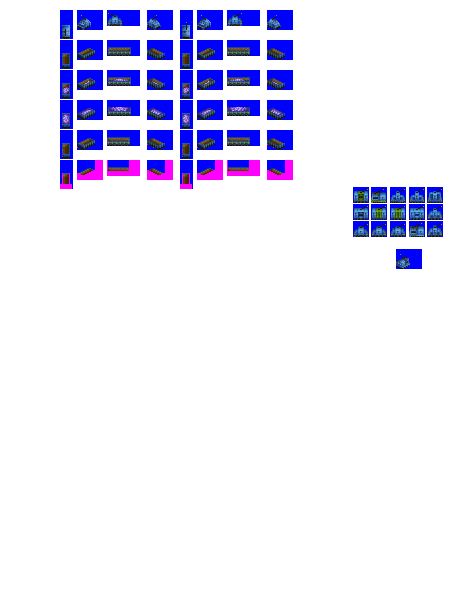
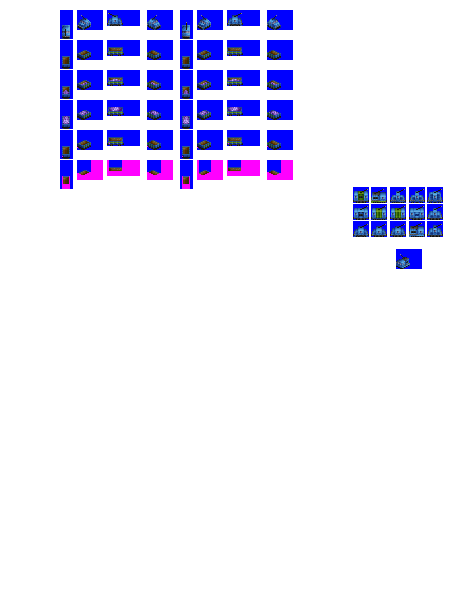
Change: add more test Feldbahn consists

diff --git a/src/vehicles/bahn_steam_face_open.py b/src/vehicles/bahn_steam_face_open.py
@@ -1,0 +1,17 @@
+from road_vehicle import OpenFeldbahn, SteamRoadVehicle
+
+consist = OpenFeldbahn(id='bahn_steam_face_open',
+                       base_numeric_id=970,
+                       name='Bahn Steam Face',
+                       vehicle_life=40,
+                       gen=2)
+
+consist.add_unit(type=SteamRoadVehicle,
+                 capacity=0,
+                 vehicle_length=4,
+                 always_use_same_spriterow=True)
+
+consist.add_unit(capacity=25,
+                 vehicle_length=4,
+                 cargo_length=3,
+                 repeat=3)
